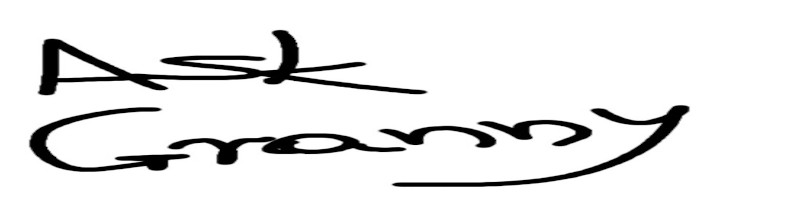
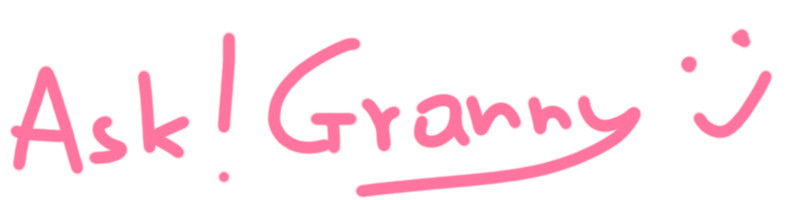
front end upgraded

diff --git a/static/style.css b/static/style.css
@@ -2,19 +2,23 @@
     font-family: Lucida, sans-serif;
     font-size: 150%;
     text-align: left;
-    color: black;
+    color: #95e1d3;
+    text-shadow: 3px 3px #000000;
+    -webkit-text-stroke: 1px #ff75a0;
 }
 
 #homepage:hover {
-    color: deeppink;
+    color: #ff75a0;
 }
 
 body {
-    background-color: antiquewhite;
+    background-color: #eaffd0;
+    margin-left: 20%;
+    margin-right: 20%;
 }
 
 p {
-    color: coral;
+    color: #000000;
     text-align: center;
     margin-left: 20%;
     margin-right: 20%;
@@ -22,16 +26,19 @@ p {
 }
 
 pre {
-    color: coral;
+    color: #fce38a;
 }
 
 a {
-    color: black;
-    text-decoration: None;
+    color: #000000;
+    text-shadow: 1px 1px #ff75a0;
+    -webkit-text-stroke: 1px #000000;
 }
 
 a:hover {
-  color: cornflowerblue;
+    color: #95e1d4;
+    text-shadow: 1px 1px #95e1d4;
+    -webkit-text-stroke: 1px #95e1d4;
 }
 
 #homepage_picture {
@@ -58,4 +65,19 @@ div {
 
 .home_page_links {
     font-size: 130%;
+}
+
+#question_title {
+    font-size: 125%;
+    font-weight: bold;
+    text-align: left;
+}
+
+#question_message {
+    text-align: left;
+}
+
+.text_colon {
+    font-size: 120%;
+    text-align: left;
 }

diff --git a/templates/question.html b/templates/question.html
@@ -1,7 +1,36 @@
 {% extends 'base.html' %}
 {% block body %}
-{{ question_data }}
-<br>
-{{ answers }}
+    <br><br><br><br>
+    <p id="question_title">{{ question_data['title'] }}</p>
+    <p id="question_message">
+    {{ question_data['message'] }}
+        <br>
+
+        {% block vote %}
+
+            {{ question_data['vote_number'] }}
+            {{ super() }}
+
+    {% endblock %}
+    </p>
+
+<br><br><br><br>
+    <p class="text_colon">Answers:</p>
+    <a href="{{ url_for('add_answer', question_id=question_data['id']) }}">add answer</a><br>
+    {% for answer in answers %}
+    <p>
+        {{ answer['message'] }}
+    <br>
+
+
+    {{ answer['vote_number'] }}
+    </p>
+         <form method="POST">
+            <input type="submit" name="vote" value="vote_up">
+            <input type="submit" name="vote" value="vote_down">
+        </form>
+    {% endfor %}
+
+    <br><br><br><br>
 
 {%  endblock %}

diff --git a/templates/questions.html b/templates/questions.html
@@ -1,19 +1,21 @@
 {% extends 'base.html' %}
 {% block body %}
-
-
     <div>
-    {% for question in questions %}
-    <p>{{ question }}</p>
-        <a href="/question/{{ question[0] }}/new-answer" class="questions"> {{ question[4] }}</a>
-    {% endfor %}
-    </div>
+    {% for question in questions_list[1:] %}
+        <a href="/question/{{ question[QUESTION_ID_INDEX] }}"
+           class="questions"> {{ question[QUESTION_TITLE_INDEX] }}</a>
 
-
-    <form method="POST">
-            <input type="submit" name="vote" value="vote_up"><br>
+        <form method="POST">
+            <input type="submit" name="vote" value="vote_up">
             <input type="submit" name="vote" value="vote_down">
         </form>
+        <br><br><br>
+    {% endfor %}
+    </div>
+    {% block vote %}
+    {{ super() }}
+    {% endblock %}
+
     <p>
         {{ counter }}
     </p>

diff --git a/templates/add_answer.html b/templates/add_answer.html
@@ -1,8 +1,8 @@
 {% extends 'base.html' %}
     {% block body %}
-        {% for key in question_dictionary %}
-        <p>{{ key }}: {{ question_dictionary[key] }}</p>
-        {% endfor %}
+            <p>{{ question_dictionary['title'] }}</p>
+            <p>{{ question_dictionary['message'] }}</p>
+            <p>{{ question_dictionary['vote_number'] }}</p>
 
         <form method="POST">
             <input type="submit" name="vote" value="vote_up"><br>
@@ -17,6 +17,7 @@
         <input type="file" name="image">
         <input type="submit">
         </form>
+
 
 
     {% endblock %}

diff --git a/templates/index.html b/templates/index.html
@@ -2,11 +2,12 @@
 {% block body %}
 
 
-    <img src="{{ url_for("static", filename="sample.jpg") }}" alt="Granny" id="homepage_picture"><br>
+    <img src="{{ url_for("static", filename="sample.png") }}" alt="Granny" id="homepage_picture">
+    <br><br><br><br>
     <div class="home_page_links">
-    <a href="{{ url_for('vote_on_answer') }}">list of questions</a>
+    <a href="{{ url_for('questions') }}">list of questions</a>
         <br><br>
-    <a href="/question/1/new-answer">add answer</a><br>
+
     </div>
 
 {% endblock %}

diff --git a/templates/base.html b/templates/base.html
@@ -7,9 +7,16 @@
 </head>
 <body>
 <h2><a href="{{ url_for('index') }}" id="homepage">home page</a></h2>
-    {% block body %}
-    {% endblock body %}
+{% block body %}
 
 
+{% block vote %}
+    <form method="POST">
+            <input type="submit" name="vote" value="vote_up">
+            <input type="submit" name="vote" value="vote_down">
+        </form>
+{% endblock %}
+
+{% endblock body %}
 </body>
 </html>

diff --git a/server.py b/server.py
@@ -6,11 +6,20 @@ import logging
 from werkzeug.utils import secure_filename
 import util
 
+QUESTION_ID_INDEX = 0
+QUESTION_TIME_INDEX = 1
+QUESTION_VIEW_INDEX = 2
+QUESTION_VOTE_INDEX = 3
+QUESTION_TITLE_INDEX = 4
+QUESTION_MESSAGE_INDEX = 5
+QUESTION_IMAGE_INDEX = 6
+
 app = Flask(__name__)
 
 UPLOAD_FOLDER = './static/'
 
 app.config['UPLOAD_FOLDER'] = UPLOAD_FOLDER
+
 
 @app.route("/", methods=['GET', 'POST'])
 @app.route('/index')
@@ -19,20 +28,23 @@ def index():
 
 
 @app.route('/questions', methods=['GET', 'POST'])
-def vote_on_answer():
-    questions = c.get_questions()
+def questions():
+    questions_list = c.get_questions()
 
     counter = c.open_counter_file()
     if request.method == 'POST':
-        form = request.form
-        vote = form['vote']
+        vote = request.form['vote']
         if vote == "vote_up":
             counter += 1
         elif vote == "vote_down":
             counter -= 1
     c.save_counter(int(counter))
 
-    return render_template('questions.html', questions=questions, counter=counter)
+    return render_template('questions.html',
+                           questions_list=questions_list,
+                           counter=counter,
+                           QUESTION_ID_INDEX=QUESTION_ID_INDEX,
+                           QUESTION_TITLE_INDEX=QUESTION_TITLE_INDEX)
 
 
 @app.route('/question/<question_id>')
@@ -43,12 +55,13 @@ def question(question_id):
     question_data = answer.get_question_data(question_id)
     answers = answer.get_answers(question_id)
 
-    return render_template('question.html', question_data=question_data, answers=answers)
+    return render_template('question.html',
+                           question_data=question_data,
+                           answers=answers)
 
 
 @app.route('/question/<question_id>/new-answer', methods=['GET', 'POST'])
 def add_answer(question_id):
-
     if request.method == 'POST':
 
         message = request.form['message']
@@ -80,9 +93,9 @@ def add_answer(question_id):
 
     return render_template('add_answer.html', question_dictionary=question_data)
 
+
 @app.route('/answer/<answer_id>/delete')
 def delete_answer(answer_id):
-
     referrer_question = answer.get_answer_data(answer_id)['question_id']
 
     print(referrer_question)
@@ -90,6 +103,7 @@ def delete_answer(answer_id):
     answer.delete_answer(answer_id)
 
     return redirect(url_for('question', question_id=referrer_question))
+
 
 if __name__ == "__main__":
     app.run(debug=True)

diff --git a/answer.py b/answer.py
@@ -25,7 +25,6 @@ def get_question_data(question_id):
 
 
 def post_answer(question_id, message, image=''):
-
     answer_id = str(util.generate_uuid())
     submission_time = str(util.get_timestamp())
     vote_number = '0'
@@ -35,8 +34,8 @@ def post_answer(question_id, message, image=''):
 
     data_handler.write_answer([answer_id, submission_time, vote_number, question_id, message, image])
 
-def get_answers(question_id):
 
+def get_answers(question_id):
     all_answers = data_handler.get_all_answers()
 
     HEADERS = all_answers[0].strip().split(',')
@@ -55,6 +54,7 @@ def get_answers(question_id):
 
     return answers_by_id
 
+
 def get_answer_data(answer_id):
     all_answers = data_handler.get_all_answers()
 
@@ -70,8 +70,8 @@ def get_answer_data(answer_id):
 
     return answer_data
 
-def update_answer(answer_id, header, new_value):
 
+def update_answer(answer_id, header, new_value):
     answers = data_handler.get_all_answers()
 
     HEADERS = all_answers[0].strip().split(',')
@@ -84,8 +84,8 @@ def update_answer(answer_id, header, new_value):
             data_handler.delete_answer(answer_id)
             data_handler.write_answer(answer)
 
-def vote_answer(answer_id, plus_or_minus):
 
+def vote_answer(answer_id, plus_or_minus):
     answers = data_handler.get_all_answers()
 
     HEADERS = answers[0].strip().split(',')
@@ -101,6 +101,6 @@ def vote_answer(answer_id, plus_or_minus):
             data_handler.delete_answer(answer_id)
             data_handler.write_answer(answer)
 
-def delete_answer(answer_id):
 
+def delete_answer(answer_id):
     data_handler.delete_answer(answer_id)

diff --git a/data_handler.py b/data_handler.py
@@ -25,13 +25,13 @@ def get_all_answers():
     with open(ANSWERS_FILE, 'r') as file:
         f_data = file.read().split('\n')
 
-
     f_data_parsed = list()
     for line in f_data:
         if len(line) > 0:
             f_data_parsed.append(line)
 
     return f_data_parsed
+
 
 def write_answer(data):
     with open(ANSWERS_FILE, 'r') as file:
@@ -41,6 +41,7 @@ def write_answer(data):
 
     with open(ANSWERS_FILE, 'w') as file:
         file.writelines(f_data)
+
 
 def delete_answer(id):
     answers = get_all_answers()

diff --git a/util.py b/util.py
@@ -5,8 +5,10 @@ from data_handler import get_all_questions
 
 ALLOWED_EXTENSIONS = {'png', 'jpg', 'jpeg', 'gif'}
 
+
 def generate_uuid():
     return uuid.uuid4()
+
 
 def get_timestamp():
     return int(time.time())
@@ -19,6 +21,7 @@ def get_next_id():
         if int(question["id"]) >= current_max:
             current_max = int(question['id'])
     return current_max + 1
+
 
 def allowed_file(filename):
     return '.' in filename and filename.rsplit('.', 1)[1].lower() in ALLOWED_EXTENSIONS
